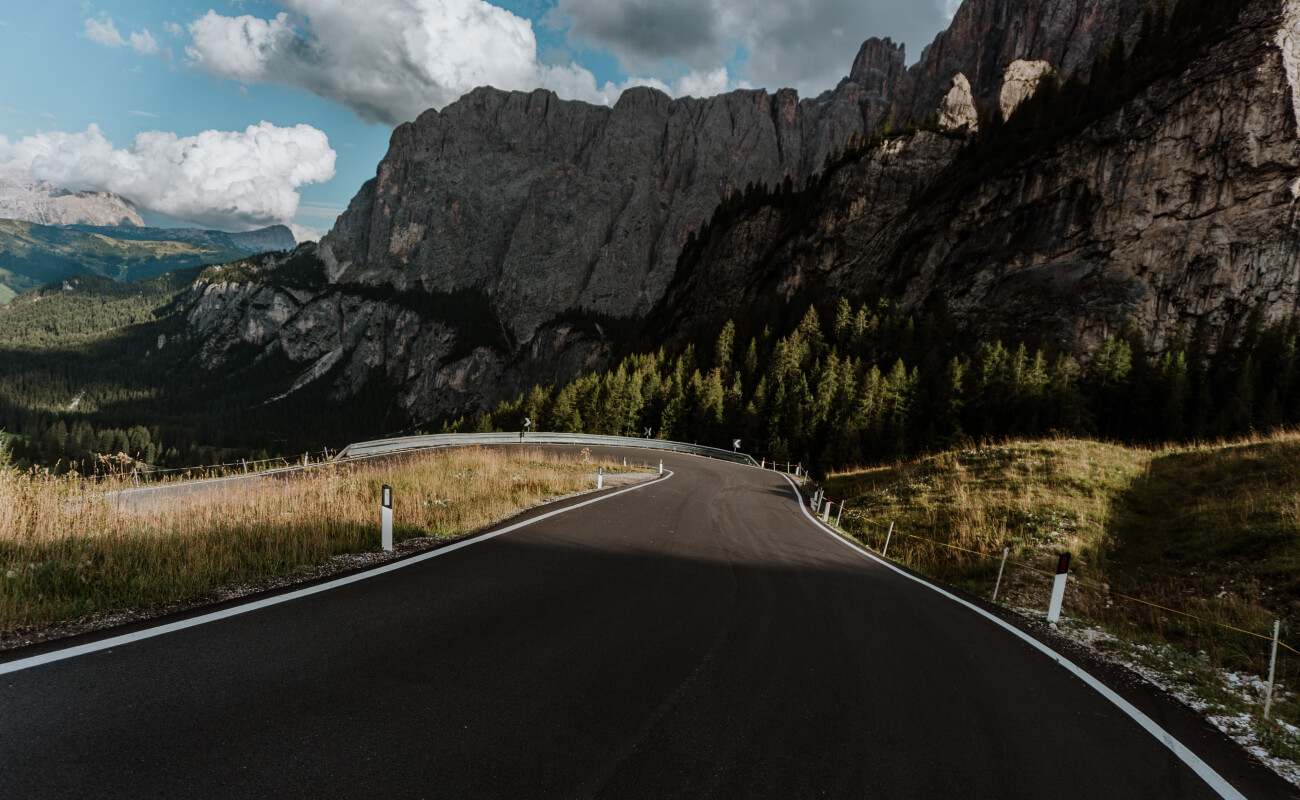
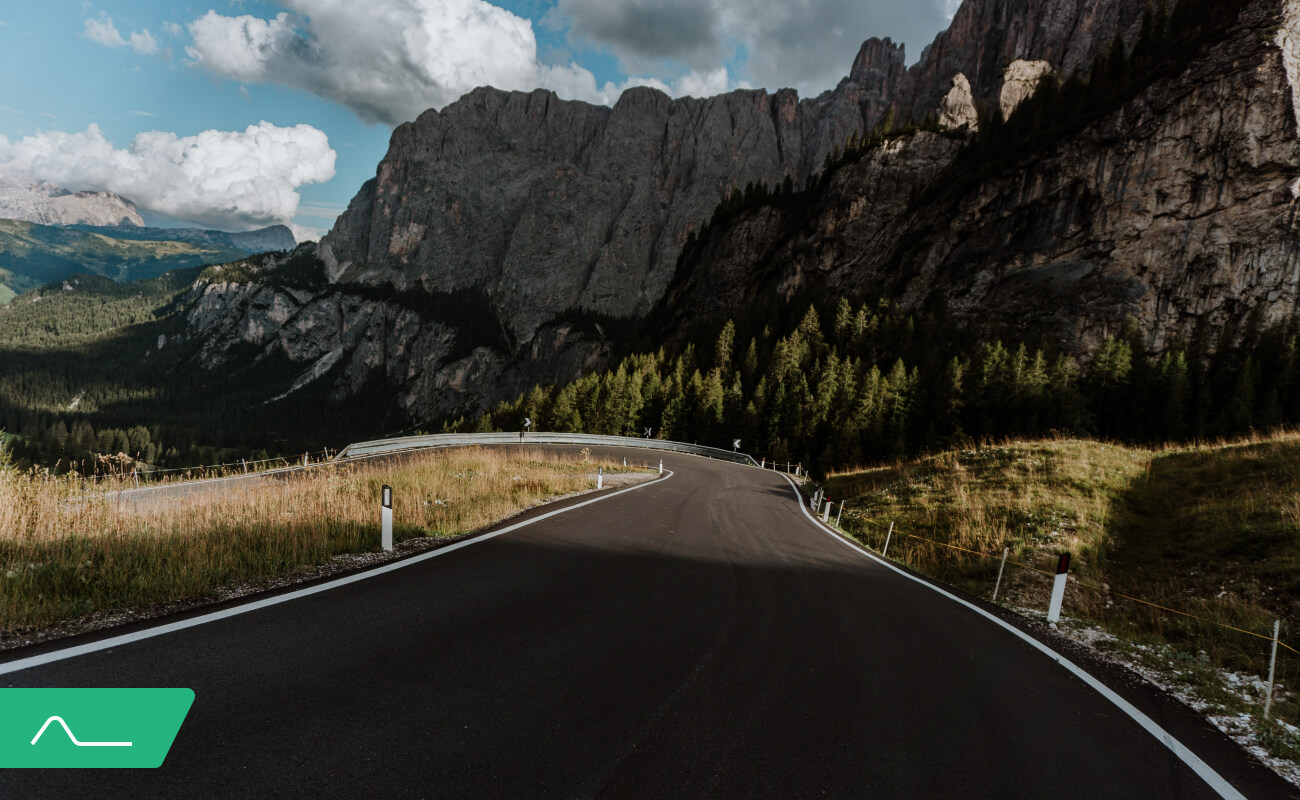
button

Changed region(s): [[0.0, 0.8438, 0.1538, 0.9688]]

diff --git a/pages/index.css b/pages/index.css
@@ -1,27 +1,36 @@
 @import url(../vendor/normalize.css);
 @import url(../vendor/fonts.css);
 @import url(../blocks/root/root.css);
+
 @import url(../blocks/header/header.css);
+
 @import url(../blocks/menu/menu.css);
 @import url(../blocks/menu/__item/menu__item.css);
 @import url(../blocks/menu/__link/menu__link.css);
+
 @import url(../blocks/lead/lead.css);
 @import url(../blocks/margin-lead/margin-lead.css);
+
 @import url(../blocks/title/title.css);
 @import url(../blocks/title/_place/title_place_lead.css);
+
 @import url(../blocks/description/description.css);
 @import url(../blocks/description/_place/description_place_lead.css);
+
 @import url(../blocks/lead/__button/lead__button.css);
-/*@import url(../blocks/lead/__button-wrapper/lead__button-wrapper.css);*/
+@import url(../blocks/lead/__button-visible/lead__button-visible.css);
+@import url(../blocks/lead/__button-text/__button-text.css);
 @import url(../blocks/lead/__image/lead__image.css);
 @import url(../blocks/lead/__bike-label/lead__bike-label.css);
 @import url(../blocks/lead/__line/lead__line.css);
 @import url(../blocks/lead/__sticky-bike/lead__sticky-bike.css);
+
 @import url(../blocks/merks/merks.css);
 @import url(../blocks/merks/__picture/merks__picture.css);
 @import url(../blocks/merks/__quote/merks__quote.css);
 @import url(../blocks/merks/__quote-author/merks__quote-author.css);
 @import url(../blocks/merks/__quote-subtitle/merks__quote-subtitle.css);
+
 @import url(../blocks/cycling-discipline/cycling-discipline.css);
 @import url(../blocks/title/_place/title_place_cycling-discipline.css);
 @import url(../blocks/description/_place/description_place_cycling-discipline.css);

diff --git a/blocks/lead/__button-visible/lead__button-visible.css b/blocks/lead/__button-visible/lead__button-visible.css
@@ -1,33 +1,39 @@
-.lead__button-wrapper {
+.lead__button-visible {
+  position: relative;
+  
+  display: flex;
+  justify-content: center;
+  align-items: center;
   max-width: 180px;
   width: 100%;
-  max-height: 50px;
-  height: 100%;
-  background-color: #24B47E;
+  height: 50px;
+  margin: 50px 0 0 0;
   border: none;
   border-radius: 4px;
   padding: 0;
+  overflow: hidden;
   cursor: pointer; 
 
   color: #fff;
   font-size: 14px;
   font-weight: 600;
   line-height: 1.06;
-  overflow: hidden;
+  text-decoration: none;
 }
 
-.lead__button-wrapper::before {
+.lead__button-visible::before {
   position: absolute;
   top: 0;
   left: -100%;
+
   width: 200%;
-  height: 100%;
+  height: 50px;
   
   content: '';
   background: linear-gradient(to right, #319E75 0%, #319E75 50%,#24B47E 50%,#24B47E 100%);
-  transition: left 0.5s;  
+  transition: left 0.8s;  
 }
 
-.lead__button-wrapper:hover::before {
+.lead__button-visible:hover::before {
   left: 0;
 }

diff --git a/index.html b/index.html
@@ -31,9 +31,10 @@
         <p class="description description_place_lead">
           Триатлонные старты, горные серпантины или грейвел заезды по живописным маршрутам – нужно только определиться с выбором велосипеда и отправиться в путь.
         </p>
-        <button class="lead__button">
-          Подробнее
-        </button>
+        <a class="lead__button-visible" href="#" target="_blank">
+            <button class="lead__button"></button>
+            <p class="lead__button-text">Подробнее</p>
+        </a>
         <p class="lead__bike-label">
           Cannondale Systemsix
           <span class="lead__line"></span>

diff --git a/blocks/lead/__button/lead__button.css b/blocks/lead/__button/lead__button.css
@@ -1,23 +1,6 @@
 .lead__button {
-  position: relative;
-  
+  display: none;
   max-width: 180px;
   width: 100%;
-  max-height: 50px;
-  height: 100%;
-  background-color: #24B47E;
-  border: none;
-  border-radius: 4px;
-  padding: 0;
-  cursor: pointer;
-
-  color: #fff;
-  font-size: 14px;
-  font-weight: 600;
-  line-height: 1.06;
-  transition: ease-out .7s;
-}
-
-.lead__button:hover {
-  background-color: #319E75;
+  height: 50px;
 }

diff --git a/blocks/lead/__button-text/__button-text.css b/blocks/lead/__button-text/__button-text.css
@@ -1,0 +1,4 @@
+.lead__button-text {
+  position: relative;
+  margin: auto;
+}
